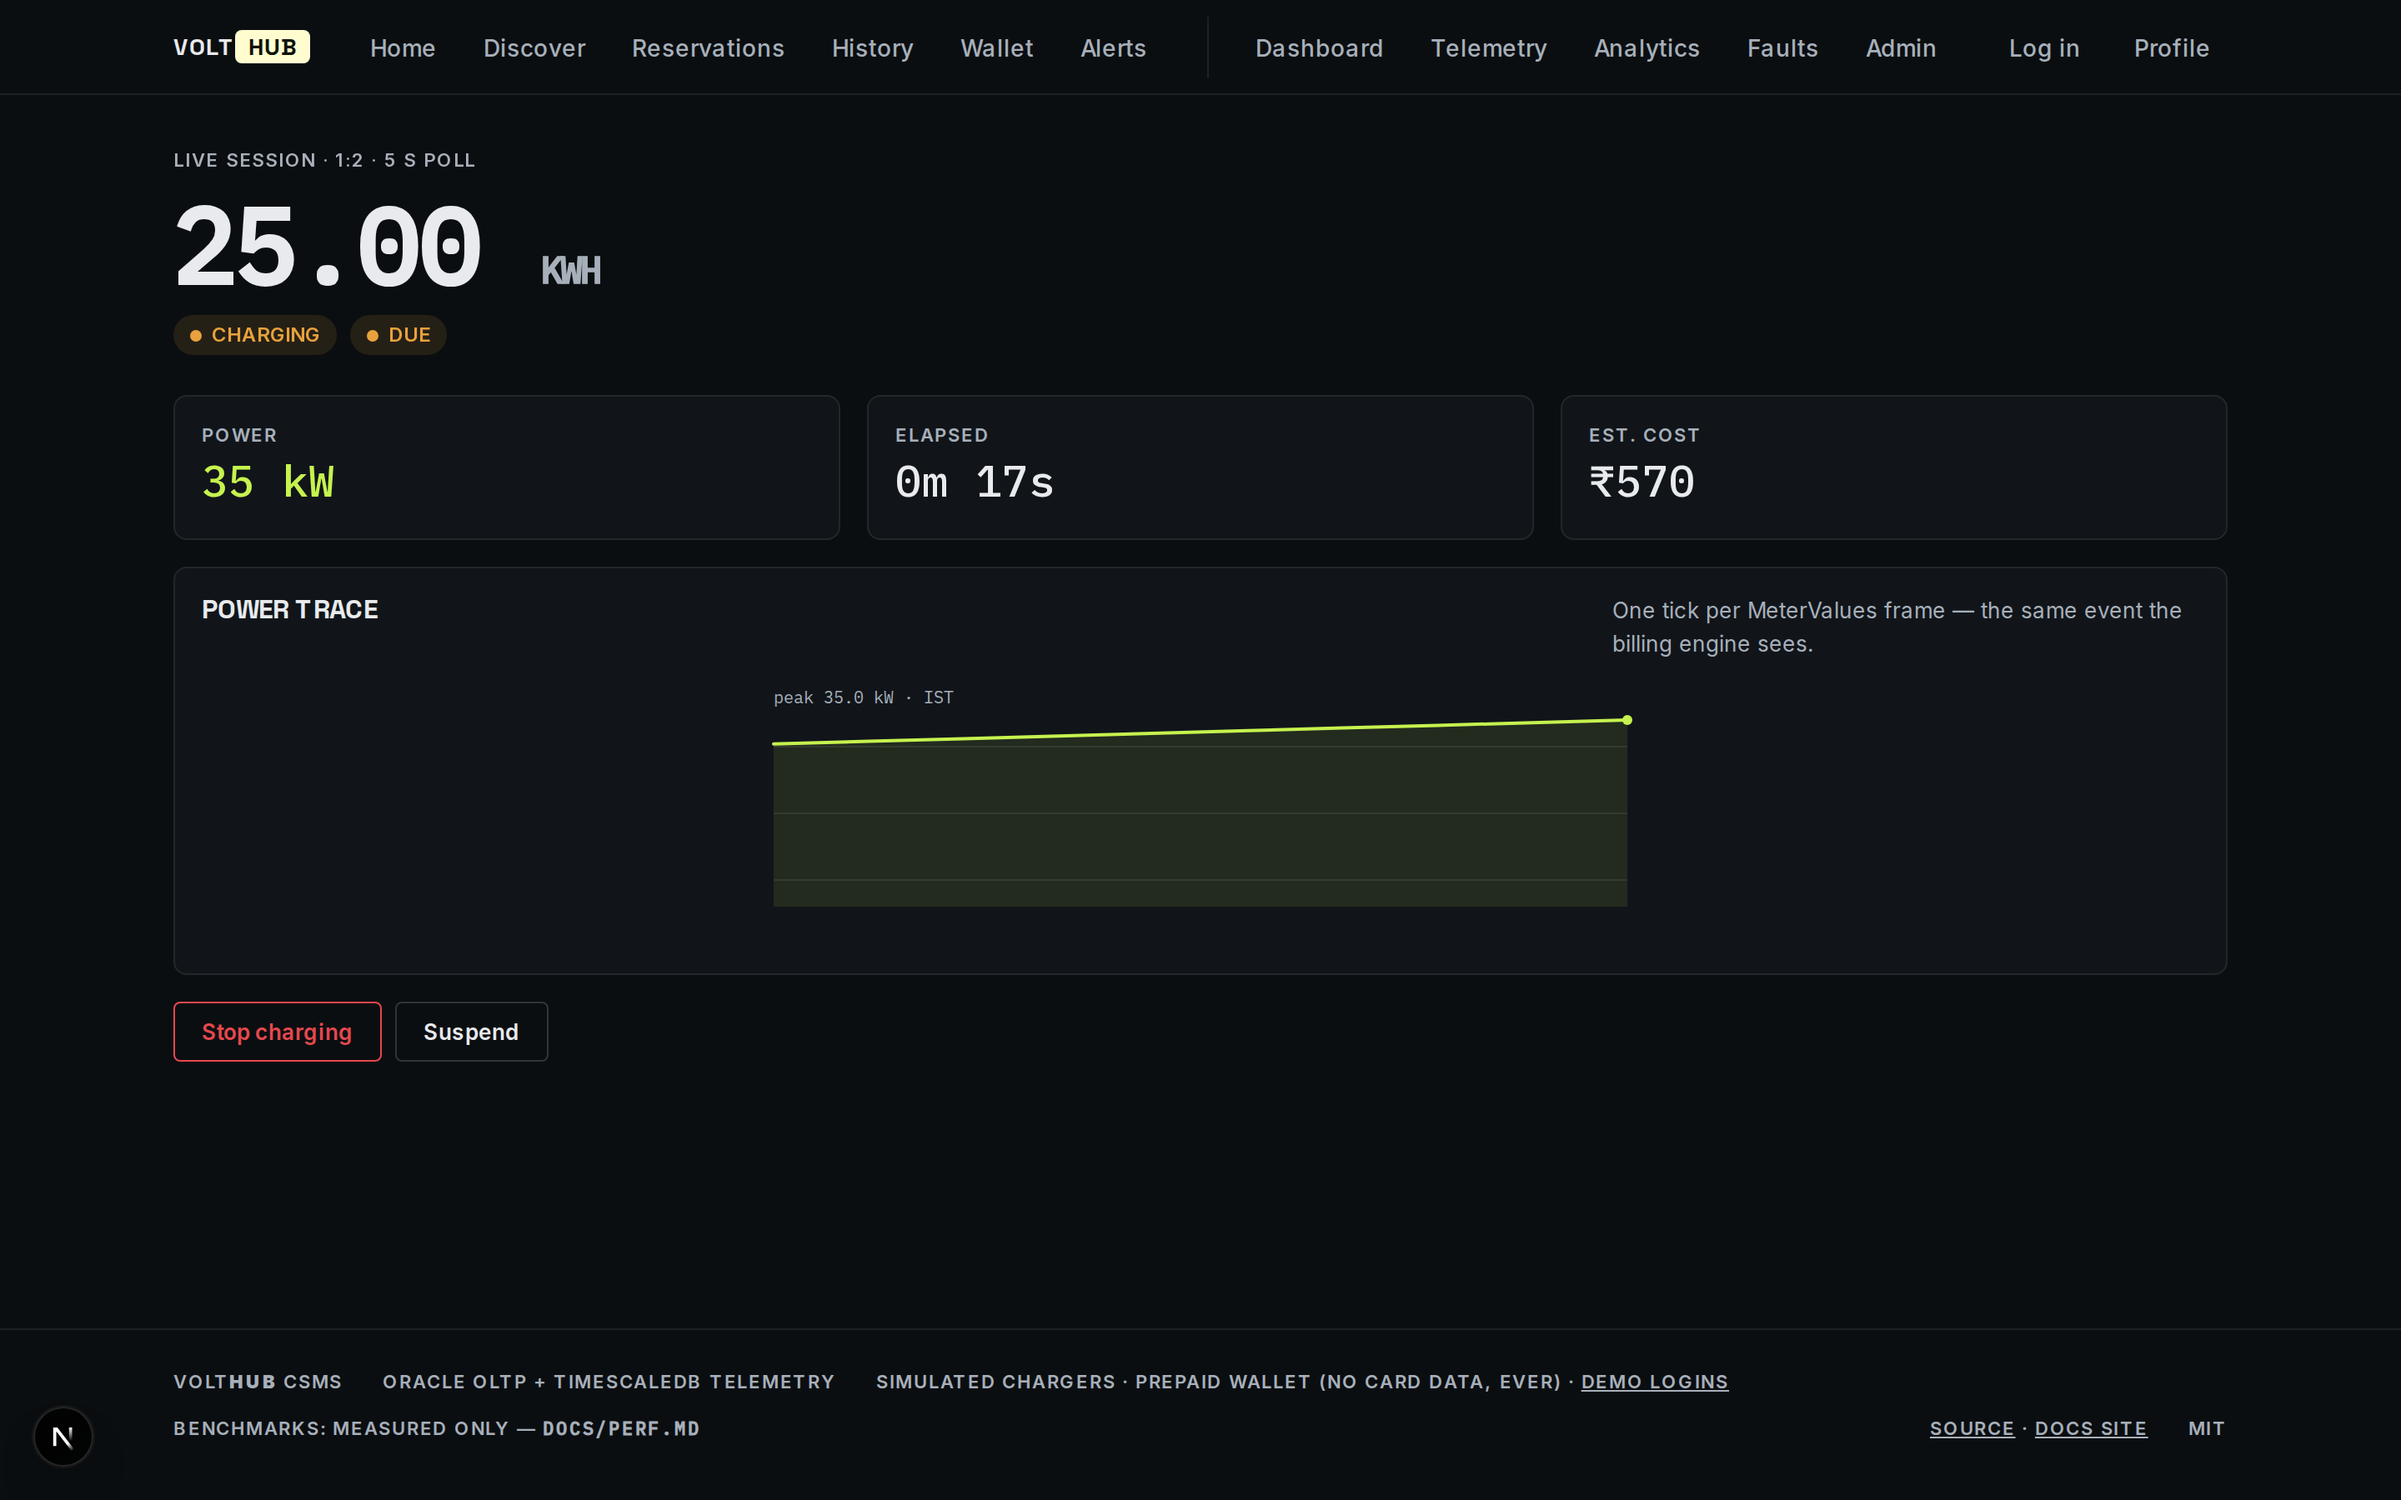
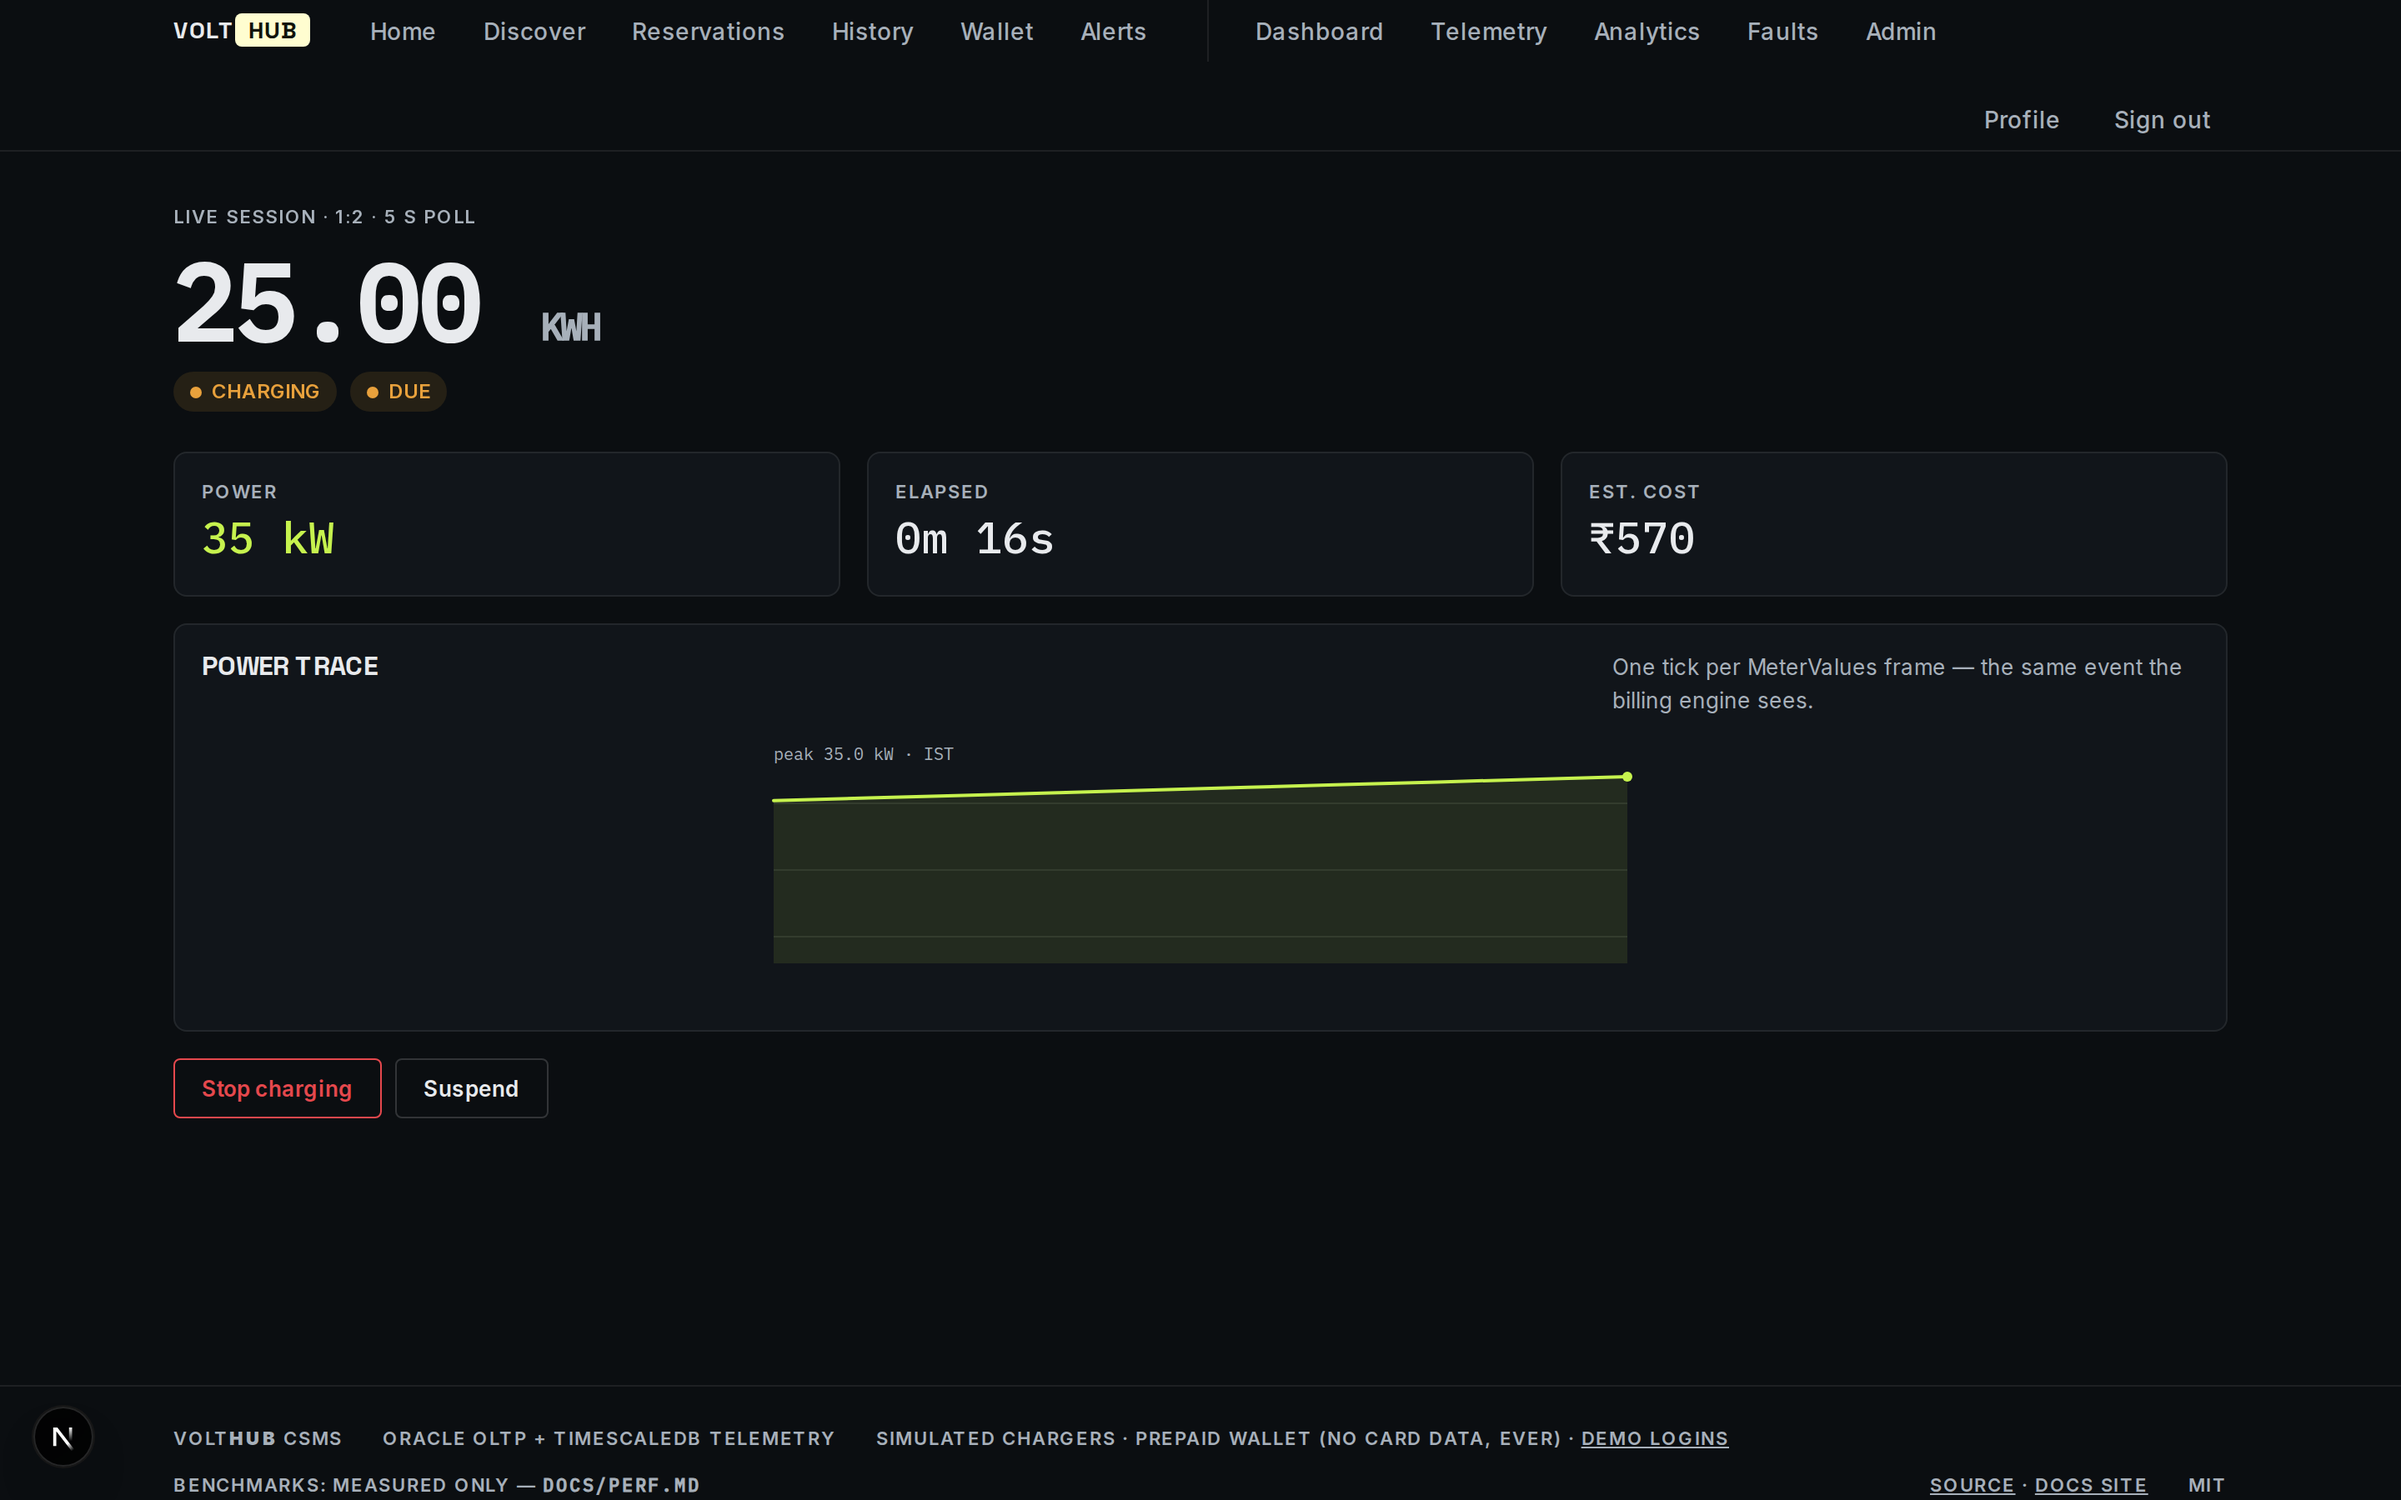
fix(web): session-aware header links and regenerated evidence
The redesigned topbar showed a static "Log in" even for authenticated
users, and sign-out was only reachable from the profile page. The header
now resolves the session after hydration (guest: Log in/Sign up; authed:
Profile/Sign out), stays in sync across tabs via the storage event, and
the mobile drawer inherits the same control. Screenshots re-recorded
against the new header so docs evidence matches the shipped UI.

🤖 Generated with Codebuff

diff --git a/apps/web/src/app/session-links.js b/apps/web/src/app/session-links.js
@@ -1,0 +1,44 @@
+'use client';
+import { useEffect, useState } from 'react';
+import Link from 'next/link';
+import { getToken, logout } from '../lib/ui';
+
+// Session-aware topbar/drawer links. SSR renders the logged-out variant (the
+// common case for first paint); after hydration the token decides. The storage
+// listener keeps multi-tab sessions honest: logging out in one tab updates the
+// rest without a reload.
+export function SessionLinks({ className }) {
+  const [authed, setAuthed] = useState(false);
+  useEffect(() => {
+    setAuthed(!!getToken());
+    const onStorage = (e) => {
+      if (e.key === 'vh_token') setAuthed(!!e.newValue);
+    };
+    window.addEventListener('storage', onStorage);
+    return () => window.removeEventListener('storage', onStorage);
+  }, []);
+
+  if (!authed) {
+    return (
+      <span className={className}>
+        <Link href="/login">Log in</Link>
+        <Link href="/signup">Sign up</Link>
+      </span>
+    );
+  }
+  return (
+    <span className={className}>
+      <Link href="/profile">Profile</Link>
+      <button
+        type="button"
+        className="linklike"
+        onClick={async () => {
+          await logout();
+          window.location = '/';
+        }}
+      >
+        Sign out
+      </button>
+    </span>
+  );
+}

diff --git a/apps/web/src/app/globals.css b/apps/web/src/app/globals.css
@@ -298,9 +298,23 @@ a {
   padding: 8px 10px;
   border-radius: var(--r-s);
 }
-.topbar .end a:hover {
+.topbar .end a:hover,
+.topbar .end button.linklike:hover {
   color: var(--tx);
   background: var(--s2);
+}
+/* header sign-out is a button that must look like its <a> siblings */
+.topbar .end button.linklike {
+  appearance: none;
+  background: none;
+  border: 0;
+  color: var(--tx2);
+  font: inherit;
+  text-decoration: none;
+  font-weight: 500;
+  padding: 8px 10px;
+  border-radius: var(--r-s);
+  cursor: pointer;
 }
 
 /* compact the wide nav before it collapses into the drawer */
@@ -377,6 +391,16 @@ a {
   .drawer .end a {
     color: var(--tx2);
     font-weight: 500;
+  }
+  .drawer .end button.linklike {
+    appearance: none;
+    background: none;
+    border: 0;
+    color: var(--tx2);
+    font: inherit;
+    font-weight: 500;
+    text-align: left;
+    cursor: pointer;
   }
 }
 

diff --git a/apps/web/src/app/layout.js b/apps/web/src/app/layout.js
@@ -2,6 +2,7 @@ import './globals.css';
 import Link from 'next/link';
 import { Inter, Space_Grotesk, IBM_Plex_Mono } from 'next/font/google';
 import { Nav } from './nav';
+import { SessionLinks } from './session-links';
 
 // Self-hosted fonts (next/font): removes the render-blocking fonts.googleapis.com
 // round-trip and lets CSP drop the Google font origins entirely.
@@ -58,10 +59,7 @@ export default function RootLayout({ children }) {
               VOLT<b>HUB</b>
             </Link>
             <Nav />
-            <span className="end">
-              <Link href="/login">Log in</Link>
-              <Link href="/profile">Profile</Link>
-            </span>
+            <SessionLinks className="end" />
           </div>
         </header>
         <main id="main">{children}</main>

diff --git a/apps/web/src/app/nav.js b/apps/web/src/app/nav.js
@@ -2,6 +2,7 @@
 import Link from 'next/link';
 import { usePathname } from 'next/navigation';
 import { useEffect, useState } from 'react';
+import { SessionLinks } from './session-links';
 
 // Two experiences, one language (§31 of the masterplan): driver surfaces first,
 // operator surfaces grouped behind a labelled cluster.
@@ -79,10 +80,7 @@ export function Nav() {
           {OPERATOR.map(([href, label]) => (
             <NavLink key={href} href={href} label={label} path={path} />
           ))}
-          <span className="end">
-            <Link href="/login">Log in</Link>
-            <Link href="/profile">Profile</Link>
-          </span>
+          <SessionLinks className="end" />
         </nav>
       )}
     </>
